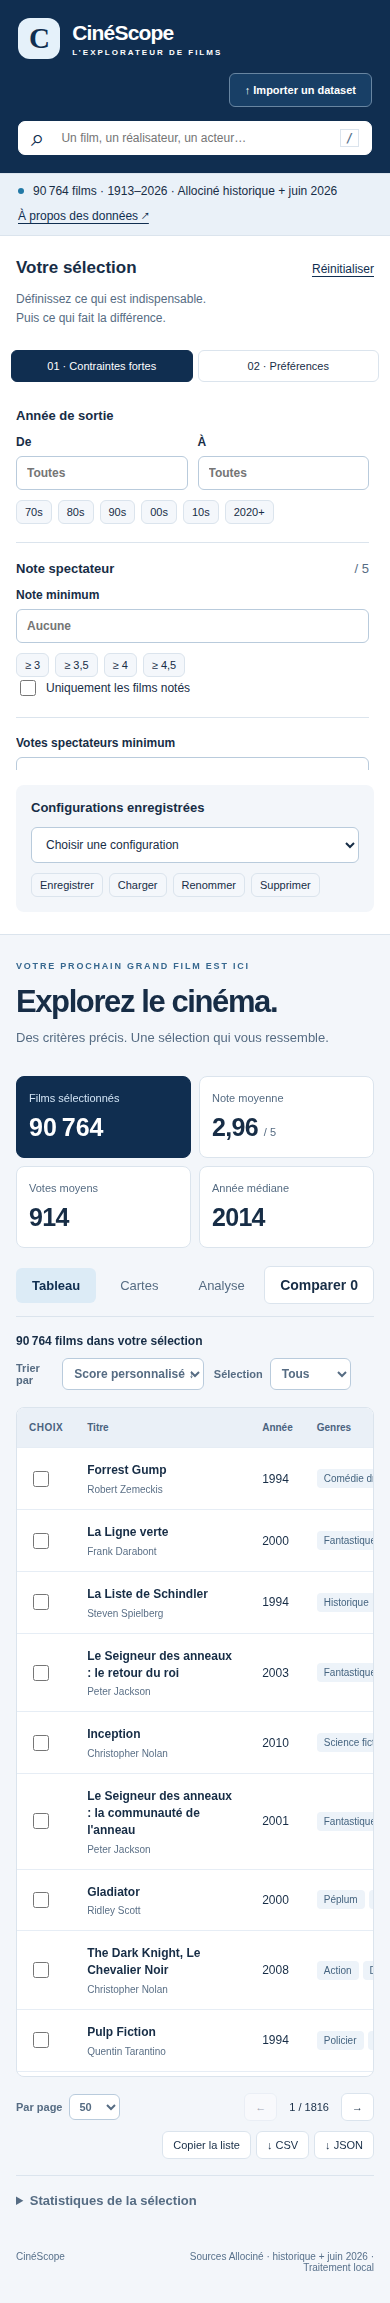
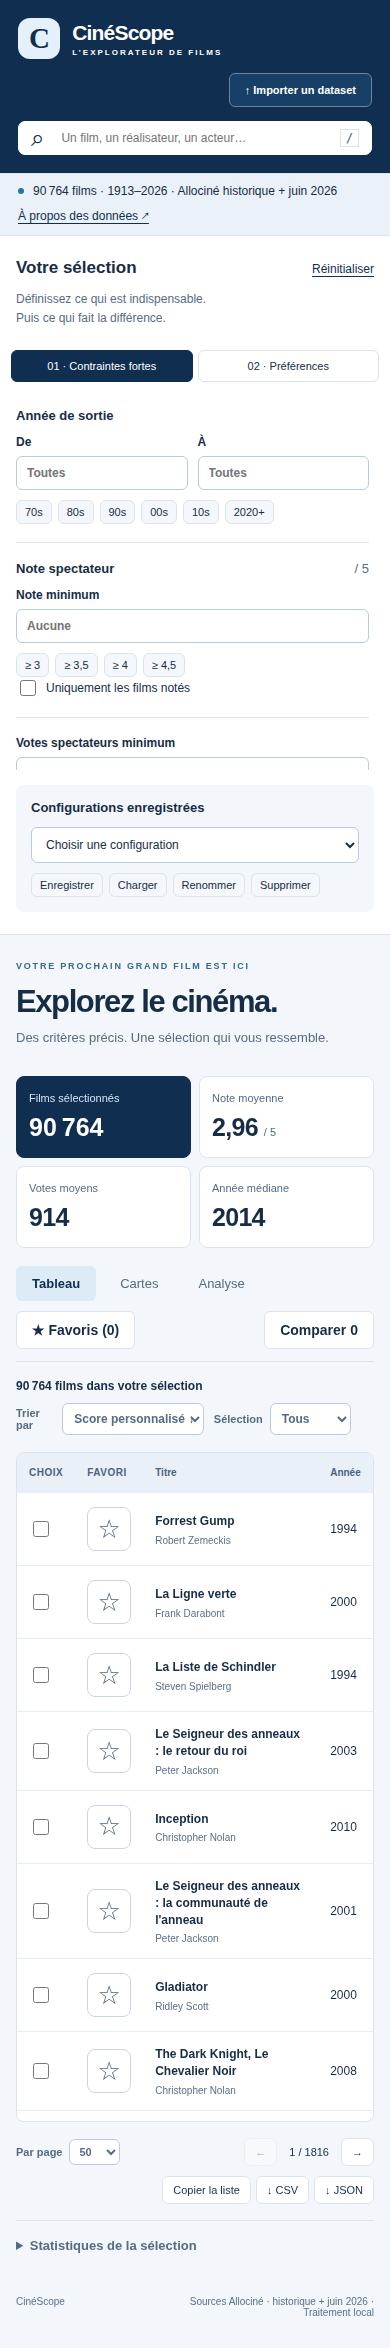
ok

diff --git a/js/ui/results.js b/js/ui/results.js
@@ -16,7 +16,20 @@ function scoreButton(m, detail) {
     ),
   );
 }
-export function renderResults(data, state, { detail, select, sort }) {
+export function renderResults(data, state, { detail, select, sort, favorite }) {
+  $("#favorites-only").setAttribute("aria-pressed", state.favoritesOnly);
+  $("#favorites-only").textContent = "★ Favoris (" + state.favorites.size + ")";
+  const favoriteButton = (m) => {
+    const active = state.favorites.has(m.id);
+    const label = (active ? "Retirer des favoris : " : "Ajouter aux favoris : ") + m.title;
+    return el("button", {
+      class: "favorite-button",
+      "aria-label": label,
+      "aria-pressed": active,
+      title: label,
+      onclick: () => favorite(m.id),
+    }, active ? "★" : "☆");
+  };
   const columns = [
     ["title", "Titre"],
     ["year", "Année"],
@@ -39,6 +52,7 @@ export function renderResults(data, state, { detail, select, sort }) {
         "tr",
         {},
         el("th", {}, "Choix"),
+        el("th", {}, "Favori"),
         ...columns.map(([k, title]) =>
           el(
             "th",
@@ -79,6 +93,7 @@ export function renderResults(data, state, { detail, select, sort }) {
         "tr",
         {},
         el("td", {}, checkbox(m)),
+        el("td", {}, favoriteButton(m)),
         el(
           "td",
           {},
@@ -111,8 +126,8 @@ export function renderResults(data, state, { detail, select, sort }) {
     el(
       "div",
       { class: "empty" },
-      el("strong", {}, "Aucun film ne correspond à ces contraintes."),
-      el("p", {}, "Élargissez les filtres ou réinitialisez la sélection."),
+      el("strong", {}, state.favoritesOnly ? "Aucun favori ne correspond à votre sélection." : "Aucun film ne correspond à ces contraintes."),
+      el("p", {}, state.favoritesOnly ? "Ajoutez des films avec l’étoile ☆ ou désactivez le filtre Favoris pour parcourir les films." : "Élargissez les filtres ou réinitialisez la sélection."),
     );
   $("#table-view").replaceChildren(data.rows.length ? table : empty());
   $("#cards-view").replaceChildren(
@@ -121,7 +136,7 @@ export function renderResults(data, state, { detail, select, sort }) {
           el(
             "article",
             { class: "card" },
-            el("div", { class: "check" }, checkbox(m), scoreButton(m, detail)),
+            el("div", { class: "check" }, checkbox(m), favoriteButton(m), scoreButton(m, detail)),
             el(
               "h3",
               {},

diff --git a/js/app.js b/js/app.js
@@ -1,3 +1,4 @@
+import { writeFavorites } from "./storage/favorites.js";
 import { showDatasetInfo } from "./ui/dataset-ui.js";
 import { state, defaults } from "./state.js";
 import { $, el, fmt, modal, notice } from "./ui/dom.js";
@@ -48,12 +49,15 @@ async function refresh() {
     const data = await request("query", {
       config: state.config,
       page: state.page,
+      favoritesOnly: state.favoritesOnly,
+      favorites: [...state.favorites],
     });
     if (rev !== revision) return;
     state.page = data.page;
     renderResults(data, state, {
       detail,
       select: selectMovie,
+      favorite: toggleFavorite,
       sort: (field) => {
         const s = state.config.sorting;
         state.config.sorting = {
@@ -202,6 +206,23 @@ function activeFilters() {
     );
   $("#active-filters").replaceChildren(...nodes);
 }
+function toggleFavorite(id) {
+  const next = new Set(state.favorites);
+  next.has(id) ? next.delete(id) : next.add(id);
+  try {
+    writeFavorites(next);
+  } catch {
+    notice("Impossible d’enregistrer les favoris : le stockage du navigateur est indisponible.");
+    return;
+  }
+  state.favorites = next;
+  refresh();
+}
+$("#favorites-only").onclick = () => {
+  state.favoritesOnly = !state.favoritesOnly;
+  state.page = 1;
+  refresh();
+};
 function selectMovie(id, checked) {
   if (checked && state.selected.size >= 8) {
     notice("La comparaison est limitée à 8 films pour rester lisible.");
@@ -253,6 +274,7 @@ document.addEventListener("keydown", (e) => {
   }
 });
 $("#reset").onclick = () => {
+  state.favoritesOnly = false;
   state.config = defaults();
   state.page = 1;
   syncControls(state);

diff --git a/tests/browser/app.spec.js b/tests/browser/app.spec.js
@@ -262,3 +262,24 @@ test("missing complementary file preserves historical dataset and explains missi
     "Synopsis non renseigné",
   );
 });
+test("favorites persist and can be filtered and removed from cards", async ({ page }) => {
+  const first = page.locator("#table-view tbody tr").first();
+  const title = await first.locator(".title-button").textContent();
+  await first.locator(".favorite-button").click();
+  await expect(first.locator(".favorite-button")).toHaveAttribute("aria-pressed", "true");
+  await page.reload();
+  await expect(page.locator("#favorites-only")).toHaveText("★ Favoris (1)");
+  await page.locator("#favorites-only").click();
+  await expect(page.locator("#table-view tbody tr")).toHaveCount(1);
+  await expect(page.locator("#table-view .title-button")).toHaveText(title);
+  await expect(page.locator("#result-count")).toHaveText("1 films dans votre sélection");
+  await page.locator("#view-cards").click();
+  await expect(page.locator("#cards-view .favorite-button")).toHaveAttribute("aria-pressed", "true");
+  await page.locator("#cards-view .favorite-button").click();
+  await expect(page.locator("#cards-view")).toContainText("Aucun favori");
+  await expect(page.locator("#favorites-only")).toHaveText("★ Favoris (0)");
+  await page.locator("#favorites-only").click();
+  await expect(page.locator("#cards-view .card")).toHaveCount(50);
+  await page.reload();
+  await expect(page.locator("#favorites-only")).toHaveText("★ Favoris (0)");
+});

diff --git a/css/styles.css b/css/styles.css
@@ -930,3 +930,26 @@ dialog::backdrop {
 .header :focus-visible { outline-color: #91d4f5; }
 .primary:hover, .side-tabs .active:hover { background: #204c76; color: #fff; }
 ::selection { background: #c8e4f6; color: #102e50; }
+
+.favorite-button {
+  width: 44px;
+  height: 44px;
+  padding: 0;
+  border: 1px solid #cbd5e1;
+  border-radius: 8px;
+  background: #fff;
+  color: #52657b;
+  font-size: 26px;
+  cursor: pointer;
+}
+.favorite-button[aria-pressed="true"] {
+  color: #926000;
+  background: #fff4cc;
+  border-color: #d9ac39;
+}
+#favorites-only[aria-pressed="true"] {
+  background: #fff4cc;
+  color: #785000;
+  border-color: #d9ac39;
+}
+.results-heading { flex-wrap: wrap; gap: 10px; }

diff --git a/js/storage/favorites.js b/js/storage/favorites.js
@@ -1,0 +1,12 @@
+const KEY = "cine-scope-favorites-v1";
+export function readFavorites() {
+  try {
+    const values = JSON.parse(localStorage.getItem(KEY) || "[]");
+    return new Set(Array.isArray(values) ? values.filter((id) => typeof id === "string") : []);
+  } catch {
+    return new Set();
+  }
+}
+export function writeFavorites(favorites) {
+  localStorage.setItem(KEY, JSON.stringify([...favorites]));
+}

diff --git a/js/engine.js b/js/engine.js
@@ -59,9 +59,11 @@ export function execute(type, p) {
   }
   if (type === "query") {
     const c = p.config;
+    const favorites = p.favoritesOnly ? new Set(p.favorites || []) : null;
     results = movies
       .filter(
         (m) =>
+          (!favorites || favorites.has(m.id)) &&
           matches(m, c.filters) &&
           !(c.sorting.field === "audienceRating" && m.audienceRating === null),
       )

diff --git a/index.html b/index.html
@@ -284,6 +284,7 @@
             ><button id="view-cards">Cartes</button
             ><button id="view-analysis">Analyse</button>
           </div>
+          <button id="favorites-only" class="button" aria-pressed="false">★ Favoris (0)</button>
           <button id="compare" class="button">
             Comparer <span id="compare-count">0</span>
           </button>

diff --git a/js/state.js b/js/state.js
@@ -1,3 +1,4 @@
+import { readFavorites } from "./storage/favorites.js";
 export const defaults = () => ({
   filters: {
     query: "",
@@ -54,5 +55,7 @@ export const state = {
   config: defaults(),
   page: 1,
   selected: new Set(),
+  favorites: readFavorites(),
+  favoritesOnly: false,
   summary: null,
 };

diff --git a/README.md b/README.md
@@ -453,3 +453,24 @@ coûteux reste hors du thread de rendu. Les temps dépendent de la machine.
 - Export JSON complet ; CSV aplati pour les listes, sans détail des contributions.
 - Les fichiers ZIP doivent être décompressés avant import.
 - Pas de graphiques ni de thème sombre : priorité à l’exploration tabulaire.
+
+## GitHub Pages
+
+Le site peut être publié tel quel, sans build ni backend. Les chemins du CSS,
+des modules JavaScript, du Worker et des CSV sont relatifs : ils fonctionnent
+sous un sous-répertoire comme `/cine/`. Le fichier `.nojekyll` désactive Jekyll.
+
+1. Pousser le projet, y compris `.nojekyll` et les deux CSV de `data/source/`.
+2. Dans GitHub : **Settings → Pages → Build and deployment**.
+3. Choisir **Deploy from a branch**, la branche contenant le projet, puis **/(root)**.
+4. Enregistrer et attendre la fin du déploiement.
+
+Pour le dépôt `flyingpafnouti/cine`, l’adresse attendue est
+https://flyingpafnouti.github.io/cine/ (une fois Pages activé).
+
+Les CSV représentent environ 31 Mo non compressés à télécharger au premier
+chargement. Les calculs et les imports personnels restent dans le navigateur ;
+les presets sont propres à cette origine et ne sont pas transférés depuis localhost.
+Aucun serveur Python ni Node.js n’est nécessaire sur GitHub Pages.
+
+Documentation : https://docs.github.com/en/pages/getting-started-with-github-pages/creating-a-github-pages-site
